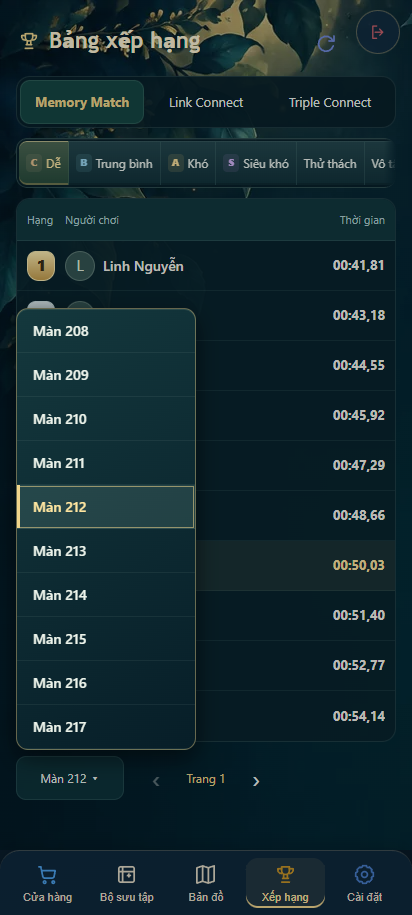
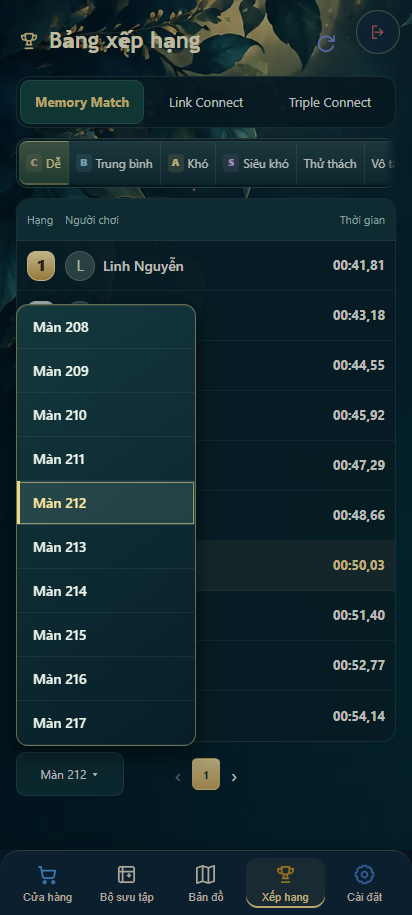
feat: compact loaded leaderboard pages with ellipsis

diff --git a/js/leaderboardPanel.js b/js/leaderboardPanel.js
@@ -11,7 +11,7 @@ import { readLeaderboard } from './leaderboardStore.js';
 import { readCachedLeaderboard } from './leaderboardStore.js';
 import { rankingBoardId } from './rankingResult.js';
 import { openLeaderboardStagePicker } from './leaderboardStagePicker.js';
-import { formatLeaderboardTime, formatLeaderboardNumber } from './leaderboardPresentation.js';
+import { formatLeaderboardTime, formatLeaderboardNumber, compactLeaderboardPages } from './leaderboardPresentation.js';
 import { createGameShellLifecycle, getActiveGameScope } from './gameShell/gameShellLifecycle.js';
 import { getAppPageScope } from './appPageLifecycle.js';
 let lastGame = null;
@@ -25,6 +25,8 @@ export function openLeaderboards(gameId, onClose, surface = {}) {
   let currentKey = null;
   let loading = false;
   let picker = null;
+  let loadedPages = [1];
+  const compactPager = window.matchMedia('(max-width: 700px)');
   const scrolls = new Map();
   const content = document.createElement('div'); content.className = 'leaderboard-view';
   const games = tabs('Trò chơi', GAME_DEFINITIONS.map(item => [item.id, item.title]), 'game');
@@ -38,12 +40,12 @@ export function openLeaderboards(gameId, onClose, surface = {}) {
   const status = document.createElement('p'); status.className = 'leaderboard-status'; status.setAttribute('aria-live', 'polite');
   const results = document.createElement('div'); results.className = 'leaderboard-results'; results.tabIndex = 0; results.setAttribute('aria-label', 'Danh sách xếp hạng');
   const own = document.createElement('p'); own.className = 'leaderboard-own';
-  const pager = document.createElement('nav'); pager.className = 'leaderboard-pager'; pager.setAttribute('aria-label', 'Trang xếp hạng');
+  const pager = document.createElement('nav'); pager.className = 'leaderboard-pager'; pager.tabIndex = -1; pager.setAttribute('aria-label', 'Trang xếp hạng');
   const previous = button('Trước'); const next = button('Sau');
   previous.setAttribute('aria-label', 'Trước'); previous.textContent = '‹';
   next.setAttribute('aria-label', 'Sau'); next.textContent = '›';
-  const pageLabel = document.createElement('span');
-  pager.append(previous, pageLabel, next);
+  const pageNumbers = document.createElement('span'); pageNumbers.className = 'leaderboard-page-numbers';
+  pager.append(previous, pageNumbers, next);
   filters.append(levelLabel); footer.append(filters, pager); results.append(status); content.append(games, modes, results, own, footer);
   const owner = surface.owner || getActiveGameScope() || getAppPageScope();
   const release = owner?.own(() => scope.dispose(), 'cleanup');
@@ -63,10 +65,30 @@ export function openLeaderboards(gameId, onClose, surface = {}) {
     levelLabel.textContent = `Màn ${level.value} ▾`; levelLabel.title = `Màn ${level.value}`;
   }
   function controls(data = null) {
+    if (data) loadedPages = data.loadedPages;
     refresh.disabled = loading;
     previous.disabled = loading || currentPage === 1;
     next.disabled = loading || !data?.hasNext || currentPage >= 100;
-    pageLabel.textContent = `Trang ${currentPage}`;
+    renderPages();
+  }
+  function renderPages() {
+    const focusedPage = pageNumbers.contains(document.activeElement) ? document.activeElement.dataset.page : null;
+    const restoreFocus = focusedPage !== null || document.activeElement === pager;
+    const fragment = document.createDocumentFragment();
+    for (const item of compactLeaderboardPages(loadedPages, currentPage, compactPager.matches)) {
+      if (item === 'ellipsis') {
+        const gap = document.createElement('span'); gap.className = 'leaderboard-page-gap'; gap.textContent = '…'; gap.setAttribute('aria-hidden', 'true'); fragment.append(gap);
+      } else {
+        const control = button(String(item)); control.dataset.page = String(item); control.setAttribute('aria-label', `Trang ${item}`);
+        if (item === currentPage) control.setAttribute('aria-current', 'page');
+        control.disabled = loading; fragment.append(control);
+      }
+    }
+    pageNumbers.replaceChildren(fragment);
+    if (restoreFocus) {
+      const target = loading ? pager : pageNumbers.querySelector(`[data-page="${focusedPage || currentPage}"]`) || pageNumbers.querySelector('[aria-current="page"]') || pager;
+      target.focus({ preventScroll: true });
+    }
   }
   async function load(refreshRequested = false, requestedPage = 1) {
     const id = ++generation;
@@ -74,10 +96,12 @@ export function openLeaderboards(gameId, onClose, surface = {}) {
     if (currentKey) { scrolls.delete(`${currentKey}:${currentPage}`); scrolls.set(`${currentKey}:${currentPage}`, results.scrollTop); while (scrolls.size > 60) scrolls.delete(scrolls.keys().next().value); }
     const normal = NORMAL_MODE_IDS.includes(selectedMode);
     const board = { gameId: selectedGame, mode: selectedMode, kind: normal ? 'time' : 'run', ...(normal ? { level: Number(level.value) } : { rulesVersion: 2 }) };
+    const nextKey = `${uid || ''}:${rankingBoardId(board)}`;
+    if (nextKey !== currentKey) loadedPages = [1];
     loading = true; currentPage = requestedPage; controls();
     results.replaceChildren(status); own.textContent = ''; status.textContent = 'Đang tải…'; results.setAttribute('aria-busy', 'true');
     if (normal && (!Number.isSafeInteger(board.level) || board.level < 1 || board.level > MAX_ADVENTURE_LEVEL)) { loading = false; results.removeAttribute('aria-busy'); status.textContent = 'Hãy nhập số màn hợp lệ.'; controls(); return; }
-    currentKey = `${uid || ''}:${rankingBoardId(board)}`;
+    currentKey = nextKey;
     try {
       const backend = await getFirebaseBackend();
       if (!scope.active || id !== generation || uid !== getAccountService()?.getIdentity()?.uid) return;
@@ -116,7 +140,7 @@ export function openLeaderboards(gameId, onClose, surface = {}) {
     } catch (error) {
       if (scope.active && id === generation) status.textContent = ['reset', 'stale'].includes(error.code) ? 'Bảng đã thay đổi. Làm mới để xem tiếp.' : 'Chưa tải được bảng. Thử lại.';
     } finally {
-      if (scope.active && id === generation) { loading = false; refresh.disabled = false; previous.disabled = currentPage === 1; results.removeAttribute('aria-busy'); }
+      if (scope.active && id === generation) { loading = false; refresh.disabled = false; previous.disabled = currentPage === 1; renderPages(); results.removeAttribute('aria-busy'); }
     }
   }
   scope.listen(games, 'click', event => { const item = event.target.closest('[data-rank-game]'); if (!item) return; selectedGame = item.dataset.rankGame; frontier(); updateFilters(); void load(); });
@@ -138,6 +162,11 @@ export function openLeaderboards(gameId, onClose, surface = {}) {
   scope.listen(refresh, 'click', () => { void load(true); });
   scope.listen(previous, 'click', () => { if (!loading && currentPage > 1) void load(false, currentPage - 1); });
   scope.listen(next, 'click', () => { if (!loading && !next.disabled) void load(false, currentPage + 1); });
+  scope.listen(pageNumbers, 'click', event => {
+    const item = event.target.closest('[data-page]');
+    if (item && !loading && !item.disabled && Number(item.dataset.page) !== currentPage && loadedPages.includes(Number(item.dataset.page))) void load(false, Number(item.dataset.page));
+  });
+  scope.listen(compactPager, 'change', renderPages);
   let previousUid = getAccountService()?.getIdentity()?.uid;
   if (getAccountService()) scope.own(getAccountService().subscribe(() => {
     const uid = getAccountService().getIdentity()?.uid;

diff --git a/tests/ui/leaderboard-layout.spec.js b/tests/ui/leaderboard-layout.spec.js
@@ -11,6 +11,7 @@ const source = readFileSync('js/leaderboardPanel.js', 'utf8')
     const count = window.rankCount;
     const data = { page, hasNext: page * 10 < count, knownPages: Array.from({ length: Math.min(Math.ceil(count / 10), page + 1) }, (_, i) => i + 1),
       top: Array.from({ length: Math.max(0, Math.min(10, count - (page - 1) * 10)) }, (_, i) => ({ uid: 'row-' + ((page - 1) * 10 + i), playerName: window.rankNames?.[i] || '<img src=x> Tên người chơi rất dài rất dài', durationMs: window.rankNames ? 41810 + i * 1370 : 1000, levelReached: window.rankNames ? 42 - i : 10, totalScore: window.rankNames ? 128640 - i * 3500 : 12345 })), own: window.rankUid ? { durationMs: 1000, levelReached: 10, totalScore: 12345 } : null };
+    data.loadedPages = [...new Set([...window.rankCache.keys()].map(key => JSON.parse(key)).filter(item => JSON.stringify(item.board) === JSON.stringify(board) && item.uid === uid).map(item => item.page).concat(page))];
     window.rankCache.set(JSON.stringify({ board, uid, page }), data); return data;
   };`);
 async function open(page, count = 21, gameContext = false) {
@@ -35,6 +36,46 @@ for (const count of [0, 1, 10, 11]) test(`record count ${count}, private own rec
   await expect(page.locator('.leaderboard-view')).not.toContainText('Đã cập nhật');
   await expect(page.locator('.leaderboard-list img')).toHaveCount(0);
 });
+test('page numbers show only loaded pages, collapse with ellipsis and jump once', async ({ page }) => {
+  await page.setViewportSize({ width: 1024, height: 900 }); await open(page, 1000);
+  await page.evaluate(() => { window.rankNames = ['Linh Nguyễn', 'Hải Minh', 'Ngọc Anh', 'Bảo Trân', 'Hoàng Nam', 'Mai Chi', 'An Nhiên', 'Tuấn Anh', 'Thanh Hà', 'Minh Khôi']; });
+  await page.getByRole('button', { name: 'Làm mới', exact: true }).click();
+  const numbers = page.locator('.leaderboard-page-numbers');
+  await expect(numbers.locator('button')).toHaveText(['1']);
+  for (let n = 2; n <= 12; n++) {
+    await page.getByRole('button', { name: 'Sau', exact: true }).click();
+    await expect(numbers.locator('[aria-current="page"]')).toHaveText(String(n));
+  }
+  await page.getByRole('button', { name: 'Trang 11', exact: true }).click();
+  await expect(numbers.locator('[aria-current="page"]')).toHaveText('11');
+  await expect(numbers.locator('button')).toHaveText(['1', '2', '10', '11', '12']);
+  await expect(numbers.locator('.leaderboard-page-gap')).toHaveCount(1);
+  await page.screenshot({ path: 'docs/design/leaderboard/qa/desktop-pagination.png', animations: 'disabled' });
+  await expect(page.getByRole('button', { name: 'Trang 13', exact: true })).toHaveCount(0);
+  const before = await page.evaluate(() => window.rankRequests.length);
+  await page.getByRole('button', { name: 'Trang 2', exact: true }).click();
+  await expect(numbers.locator('[aria-current="page"]')).toHaveText('2');
+  await expect(page.getByRole('button', { name: 'Trang 2', exact: true })).toBeFocused();
+  expect(await page.evaluate(() => window.rankRequests.length)).toBe(before + 1);
+  expect(await page.evaluate(() => window.rankRequests.at(-1).page)).toBe(2);
+  await page.setViewportSize({ width: 412, height: 915 });
+  await expect(numbers.locator('button')).toHaveText(['1', '2', '12']);
+  await expect(page.getByRole('button', { name: 'Trang 2', exact: true })).toBeFocused();
+  const pager = await page.locator('.leaderboard-pager').boundingBox();
+  const stage = await page.getByRole('button', { name: 'Chọn màn', exact: true }).boundingBox();
+  expect(Math.abs(pager.x + pager.width / 2 - 206)).toBeLessThan(2);
+  expect(stage.x + stage.width).toBeLessThanOrEqual(pager.x);
+  await page.screenshot({ path: 'docs/design/leaderboard/qa/mobile-pagination.png', animations: 'disabled' });
+  await page.setViewportSize({ width: 320, height: 740 });
+  const narrowPager = await page.locator('.leaderboard-pager').boundingBox();
+  const narrowStage = await page.getByRole('button', { name: 'Chọn màn', exact: true }).boundingBox();
+  expect(Math.abs(narrowPager.x + narrowPager.width / 2 - 160)).toBeLessThan(2);
+  expect(narrowStage.x + narrowStage.width).toBeLessThanOrEqual(narrowPager.x);
+  expect(Math.abs(narrowStage.y + narrowStage.height / 2 - narrowPager.y - narrowPager.height / 2)).toBeLessThan(2);
+  await page.locator('[data-rank-mode="hard"]').click();
+  await expect(numbers.locator('button')).toHaveText(['1']);
+});
+
 test('stage list scrolls upwards, selects 212 and MAX once and restores focus', async ({ page }) => {
   await page.setViewportSize({ width: 412, height: 915 }); await open(page);
   const before = await page.evaluate(() => window.rankRequests.length);
@@ -114,8 +155,8 @@ for (const viewport of [{ width: 412, height: 915 }, { width: 640, height: 360 }
       }
     }
     await expect(page.locator('.leaderboard-list img')).toHaveCount(0);
-    const boxes = await page.locator('.leaderboard-tabs--game button, .leaderboard-pager > button').evaluateAll(nodes => nodes.map(node => { const rect = node.getBoundingClientRect(); return { x: rect.x, right: rect.right, y: rect.y, bottom: rect.bottom, height: rect.height }; }));
-    for (const box of boxes) { expect(box.x).toBeGreaterThanOrEqual(0); expect(box.right).toBeLessThanOrEqual(viewport.width); expect(Math.round(box.height * 1000) / 1000).toBeGreaterThanOrEqual(44); expect(box.bottom).toBeLessThanOrEqual(viewport.height); }
+    const boxes = await page.locator('.leaderboard-tabs--game button, .leaderboard-pager button').evaluateAll(nodes => nodes.map(node => { const rect = node.getBoundingClientRect(); return { x: rect.x, right: rect.right, y: rect.y, bottom: rect.bottom, height: rect.height, minimum: node.closest('.leaderboard-pager') ? 32 : 44 }; }));
+    for (const box of boxes) { expect(box.x).toBeGreaterThanOrEqual(0); expect(box.right).toBeLessThanOrEqual(viewport.width); expect(Math.round(box.height * 1000) / 1000).toBeGreaterThanOrEqual(box.minimum); expect(box.bottom).toBeLessThanOrEqual(viewport.height); }
     const modeGeometry = await page.locator('.leaderboard-tabs--mode button').evaluateAll(nodes => nodes.map(node => ({ y: node.getBoundingClientRect().y, height: node.getBoundingClientRect().height })));
     expect(new Set(modeGeometry.map(box => box.y)).size).toBe(1);
     for (const box of modeGeometry) expect(box.height).toBeGreaterThanOrEqual(44);
@@ -123,7 +164,7 @@ for (const viewport of [{ width: 412, height: 915 }, { width: 640, height: 360 }
     const pagerBox = await page.locator('.leaderboard-pager').boundingBox();
     expect(Math.abs(pagerBox.x + pagerBox.width / 2 - panelBox.x - panelBox.width / 2)).toBeLessThan(2);
     await page.getByRole('button', { name: 'Sau', exact: true }).click();
-    await expect(page.locator('.leaderboard-pager')).toContainText('Trang 2');
+    await expect(page.getByRole('button', { name: 'Trang 2', exact: true })).toHaveAttribute('aria-current', 'page');
     await page.getByRole('button', { name: 'Sau', exact: true }).click();
     await expect(page.locator('.leaderboard-list li')).toHaveCount(1);
     await expect(page.getByRole('button', { name: 'Sau', exact: true })).toBeDisabled();

diff --git a/js/leaderboardStore.js b/js/leaderboardStore.js
@@ -44,7 +44,7 @@ export async function readLeaderboard({ database, environment, board, uid = null
     while (cache.size > CACHE_LIMIT) cache.delete(cache.keys().next().value);
   } else { cache.delete(key); cache.set(key, state); }
   const cached = state.pages.get(page);
-  if (cached) { state.pages.delete(page); state.pages.set(page, cached); return { ...cached, knownPages: [...state.cursors.keys()], cached: true }; }
+  if (cached) { state.pages.delete(page); state.pages.set(page, cached); return { ...cached, knownPages: [...state.cursors.keys()], loadedPages: [...state.seenPages.keys()], cached: true }; }
   if (!state.cursors.has(page)) throw pageError('reset');
   const ref = entries(database, environment, boardId);
   const ordering = board.kind === 'time' ? [orderBy('durationMs', 'asc')] : [orderBy('levelReached', 'desc'), orderBy('totalScore', 'desc')];
@@ -65,7 +65,7 @@ export async function readLeaderboard({ database, environment, board, uid = null
   state.seenPages.set(page, rows.map(row => row.uid));
   const hasNext = top.size > 10;
   if (hasNext && page < 100) state.cursors.set(page + 1, rankingCursor(rows[9], board.kind));
-  const result = { top: rows, own: state.own, page, hasNext, knownPages: [...state.cursors.keys()], fetchedAt: Date.now(), reads: top.size + ownReads, cached: false };
+  const result = { top: rows, own: state.own, page, hasNext, knownPages: [...state.cursors.keys()], loadedPages: [...state.seenPages.keys()], fetchedAt: Date.now(), reads: top.size + ownReads, cached: false };
   if (cache.get(key) === state) {
     state.pages.set(page, result);
     while (state.pages.size > 5) state.pages.delete(state.pages.keys().next().value);
@@ -89,6 +89,6 @@ export function readCachedLeaderboard({ environment, board, uid = null, page = 1
   const state = cache.get(`${environment}:${rankingBoardId(board)}:${uid || ''}`);
   if (!state || Date.now() - state.fetchedAt >= CACHE_TTL_MS) return null;
   const data = state.pages.get(page);
-  return data ? { ...data, knownPages: [...state.cursors.keys()], cached: true } : null;
+  return data ? { ...data, knownPages: [...state.cursors.keys()], loadedPages: [...state.seenPages.keys()], cached: true } : null;
 }
 export function getLeaderboardCacheDiagnostics() { return { boards: cache.size, pages: [...cache.values()].map(state => state.pages.size), cursors: [...cache.values()].map(state => state.cursors.size) }; }

diff --git a/styles/leaderboard.css b/styles/leaderboard.css
@@ -73,10 +73,12 @@
 .leaderboard-level[hidden] { display: none !important; }
 .leaderboard-filters input { min-height: 44px; box-sizing: border-box; width: 68px; max-width: 100%; border: 1px solid var(--ranking-line); border-radius: 10px; padding: 5px; background: #0d3037ed; color: #fff1d1; font: inherit; }
 .leaderboard-pager { grid-column: 2; display: flex; align-items: center; justify-content: center; gap: 0; white-space: nowrap; }
-.leaderboard-pager .app-button { width: 44px; padding: 5px; border-color: transparent; background: transparent; font-size: 11px; }
-.leaderboard-pager > span { text-align: center; font-size: 12px; min-width: 56px; color: var(--ranking-gold); }
-.leaderboard-page-numbers { display: none; }
-.leaderboard-pager .app-button { font-size: 26px; }
+.leaderboard-pager .app-button { width: 28px; min-width: 28px; min-height: 32px; padding: 2px; border-color: transparent; background: transparent; font-size: 11px; }
+.leaderboard-page-numbers { display: flex; align-items: center; justify-content: center; font-size: 12px; color: var(--ranking-gold); }
+.leaderboard-pager > .app-button { font-size: 20px; }
+.leaderboard-page-numbers .app-button { font-size: 11px; font-variant-numeric: tabular-nums; border-radius: 6px; }
+.leaderboard-page-numbers .app-button[aria-current="page"] { background: linear-gradient(#e7d095, #c7a75d); color: #19342f; font-weight: 700; opacity: 1; box-shadow: inset 0 1px #fff0be70, 0 2px 0 #071a20; }
+.leaderboard-page-gap { width: 10px; text-align: center; color: var(--ranking-muted); }
 .leaderboard-stage-overlay { background: #020e1540; }
 .leaderboard-stage-dialog { position: fixed; margin: 0; max-width: none; max-height: none; border-radius: 12px; background: linear-gradient(145deg, #14383d, #071e28); color: #edf4eb; border: 1px solid #dfc17b70; box-shadow: 0 8px 24px #0008, inset 0 1px #d9ecc820; animation: none; transform: none; }
 .leaderboard-stage-dialog .app-modal__body { padding: 0; overflow: hidden; }

diff --git a/js/leaderboardPresentation.js b/js/leaderboardPresentation.js
@@ -11,3 +11,21 @@ export function formatLeaderboardTime(durationMs) {
 export function formatLeaderboardNumber(value) {
   return Number.isSafeInteger(value) && value >= 0 ? value.toLocaleString('vi-VN') : '—';
 }
+
+export function compactLeaderboardPages(loadedPages, currentPage, compact = false) {
+  const pages = [...new Set(loadedPages)].filter(page => Number.isSafeInteger(page) && page >= 1 && page <= 100).sort((a, b) => a - b);
+  if (!pages.length) return [];
+  const keep = new Set(compact ? [pages[0], currentPage, pages.at(-1)]
+    : [pages[0], pages[1], currentPage - 1, currentPage, currentPage + 1, pages.at(-2), pages.at(-1)]);
+  const visible = pages.filter(page => keep.has(page));
+  const items = [];
+  for (const page of visible) {
+    const previous = items.at(-1);
+    if (typeof previous === 'number' && page - previous > 1) {
+      if (!compact && page - previous === 2 && pages.includes(previous + 1)) items.push(previous + 1);
+      else items.push('ellipsis');
+    }
+    items.push(page);
+  }
+  return items;
+}

diff --git a/LEADERBOARD_REDESIGN_PLAN.md b/LEADERBOARD_REDESIGN_PLAN.md
@@ -15,6 +15,7 @@ Làm lại bảng xếp hạng theo phong cách Vườn đêm, nội dung dành 
 
 ## 2. Nguồn thiết kế và quyết định
 
+- Phân trang2026-10-14: người dùng chọn chỉ thu gọn các trang đã tải. Dùng loadedPages từ lịch sử tải thành công, không dùng cursor của trang kế tiếp như trang đã tải; không đếm tổng và không thêm query. Desktop giữ đầu/cuối dãy đã tải và lân cận trang hiện tại, gap dùng dấu…. Mobile giữ đầu/trang hiện tại/cuối dãy đã tải. Theo ảnh phản hồi mới, nút pager giảm28×32px, chữ11px và ô chọn màn cùng một hàng ở cả320/412px; điều chỉnh này thay kích thước44px cho pager trong thiết kế ban đầu, còn mode/chọn màn giữ44px. Không gọi số cuối dãy đã tải là tổng số trang.
 - Điều chỉnh tiếp ngày2026-10-14 theo yêu cầu người dùng: thay ô nhập bằng danh sách cuộn khoảng10 hàng, neo vào nút và tự mở lên trên nếu thiếu chỗ phía dưới. Cửa sổ40 option có giới hạn, bổ sung hai hướng khi cuộn; không tạo toàn bộ màn tớiMAX. Arrow/Page/Home/End/Enter/Escape hoạt động, chỉ query sau chọn. Sáu chế độ nhỏ hơn, liền dãy, dùng gradient/viền/bóng tĩnh tạo độ nổi; giữ vùng chạm44px và cuộn ngang. Quyết định này thay yêu cầu picker nhập số và gap giữa mode trong thiết kế ban đầu bên dưới.
 - Điều chỉnh sau nghiệm thu ngày2026-10-14 theo yêu cầu người dùng: bỏ nhãn Màn N phía trên bảng để không lặp; chỉ giữ nút chọn màn ở footer. Quyết định này thay phần nhãn ngữ cảnh đầu bảng trong thiết kế ban đầu bên dưới.
 - `docs/design/leaderboard/leaderboard-reference.png`: ảnh minh họa đã được người dùng đánh giá tốt hơn. Đây là tham chiếu mỹ thuật, không phải nguồn luật hoặc dữ liệu thật.
@@ -168,5 +169,6 @@ Yêu cầu đã giữ lại: ngày tham gia và tổng thời gian chơi của m
 - Phase5: review độc lập chấp thuận; sửa cache offline đúng board/UID/page, bỏ nhánh UI cũ khi Firebase disabled, tăng tương phản huy hiệu và nền picker; mobile412×915 đủ10 dòng. npm run check, build web và build Android wrapper pass; không build APK. Browser ranking13/13, profile5/5, regression shell/navigation/cleanup và online/auth/ranking16/16 pass qua các lượt mục tiêu. Test30chu kỳ trả resource về baseline, dùng một request ảnh đã warm và tối đa1 sự kiện decode trong trace; không suy diễn thành60FPS trên điện thoại. Ảnh runtime mobile/time/run/picker, landscape, desktop và fallback ở docs/design/leaderboard/qa/.
 - Firebase2026-10-14: permission-denied do Rules đang chạy thiếu profileStats và chỉ có ranking v1. Đã so diff với bản remote, kiểm privateRules owner/admin/concurrent/replay/invalid pass, deploy chỉ firestore:rules; đọc lại release xác nhận đúng source local, có profileStats và v2. Metadata trước/sau lưu trong qa/firebase-rules-before.json và firebase-rules-after.json. Chưa thử lại phiên trình duyệt thực của người báo lỗi vì không có phiên đó trong công cụ; không giả nhận client đã reconnect.
 - Commit Phase1–4: 459e4fe / f98bd8d / 572515a / 72fdfcc. Phase5 chứa nghiệm thu và các sửa cuối.
+- Phân trang ellipsis: presentation contract bao phủ100 trang/boundary/compact; layout14/14 pass, nhảy trang đã tải chỉ một request, focus giữ qua query và resize, 320/412px chọn màn cùng hàng không chồng. Emulator Rules/store pass phân biệt loadedPages với known cursor và giữ loadedPages khi về cache. Check/build web pass; review độc lập chấp thuận. Ảnh desktop-pagination/mobile-pagination trong qa; không đổi điểm, luật ranking, save, schema public, Rules hay query count.
 - Điều chỉnh danh sách/mode sau nghiệm thu: check toàn bộ và build web pass; layout13/13, kiểm bổ sung picker/chạm/resize/MAX pass, Firebase emulator ranking2/2 pass. Review độc lập6/6 pass, chấp thuận sau sửa nhãn dài nowrap/ellipsis với title đầy đủ. 30 lần mở/đóng vẫn trả tài nguyên về baseline. Ảnh runtime trong qa đã cập nhật; không đổi schema/save/Rules hoặc deploy Hosting trong lần chỉnh UI này.
 - Giới hạn còn lại: Galaxy S22 Ultra thật chưa có thiết bị/remote debugging; dashboard admin ngoài repository chưa tích hợp. Ngày tham gia online từ Auth; không bịa lịch sử thời gian trước khi theo dõi. API gameplay, save format và schema ranking public được giữ; thêm metadata/counter private độc lập đã test.

diff --git a/CONTEXT.md b/CONTEXT.md
@@ -4,7 +4,7 @@
 
 ## Sản phẩm
 
-- Bảng xếp hạng Vườn đêm đã hoàn tất Phase1–5 ngày2026-10-14; LEADERBOARD_REDESIGN_PLAN.md là hồ sơ nghiệm thu, không còn kế hoạch triển khai active. Một hàng mode cuộn ngang, ô chọn màn dưới cạnh pager căn giữa, danh sách màn cuộn khoảng10 hàng mở lên trên gần đáy; mode liền dãy nổi nhẹ, không XP/cấp. Profile có ngày tham gia Auth và tổng active playtime riêng dùng chung ba trò, đồng bộ counter idempotent; chỉ owner/admin đọc. Không đổi gameplay/save/public ranking schema. Check/build web/Android wrapper, browser và emulator pass; review độc lập chấp thuận. Firestore Rules đã deploy riêng để sửa permission-denied của profileStats và cho phép ranking v2; nguồn remote đã đối chiếu khớp. Chưa deploy Hosting/APK. QA Galaxy S22 Ultra thật và tích hợp dashboard admin ngoài repo còn chờ; chưa xác minh lại phiên client báo lỗi. Chi tiết/bằng chứng trong kế hoạch và docs/design/leaderboard/qa/.
+- Bảng xếp hạng Vườn đêm đã hoàn tất Phase1–5 ngày2026-10-14; LEADERBOARD_REDESIGN_PLAN.md là hồ sơ nghiệm thu, không còn kế hoạch triển khai active. Một hàng mode cuộn ngang, ô chọn màn dưới cạnh pager căn giữa với số nhỏ và dấu… cho trang đã tải, danh sách màn cuộn khoảng10 hàng mở lên trên gần đáy; mode liền dãy nổi nhẹ, không XP/cấp. Profile có ngày tham gia Auth và tổng active playtime riêng dùng chung ba trò, đồng bộ counter idempotent; chỉ owner/admin đọc. Không đổi gameplay/save/public ranking schema. Check/build web/Android wrapper, browser và emulator pass; review độc lập chấp thuận. Firestore Rules đã deploy riêng để sửa permission-denied của profileStats và cho phép ranking v2; nguồn remote đã đối chiếu khớp. Chưa deploy Hosting/APK. QA Galaxy S22 Ultra thật và tích hợp dashboard admin ngoài repo còn chờ; chưa xác minh lại phiên client báo lỗi. Chi tiết/bằng chứng trong kế hoạch và docs/design/leaderboard/qa/.
 
 - Ứng dụng JavaScript ES modules; backend local chính là IndexedDB theo chặng, facade persistence bất đồng bộ. Firebase Firestore Singapore đã cấu hình Rules/indexes; Auth Guest/Google, sync, xếp hạng online và Analytics production-only đã triển khai. Chưa deploy Hosting trong task này; dashboard Analytics/OAuth hosted/thiết bị thật còn cần QA trước phát hành.
 - Sản phẩm chưa phát hành. Yêu cầu ngày 2026-10-13 thay chính sách reset development: giữ Xu/vật phẩm/chủ đề/kỷ lục/session khi chuyển định dạng. Bản nguồn formatVersion=1 được giữ làm phục hồi; formatVersion=2 dùng transaction profile + chapter, cache giới hạn theo chặng đang xem/phiên. Không fallback sang v1 khi backend mới từng được dùng; dữ liệu hỏng/version lạ chặn ghi. Ghi thất bại chặn các snapshot phụ thuộc và yêu cầu tải lại bản đã commit, không tiếp tục ghi dữ liệu RAM chưa bền vững.
